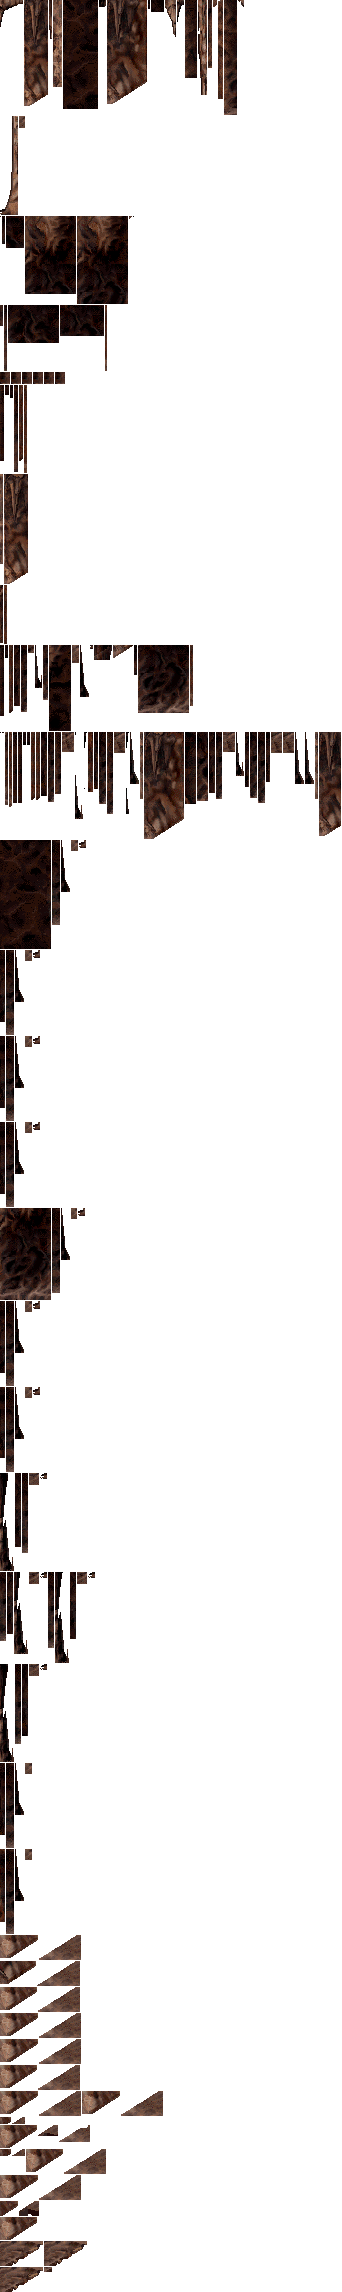
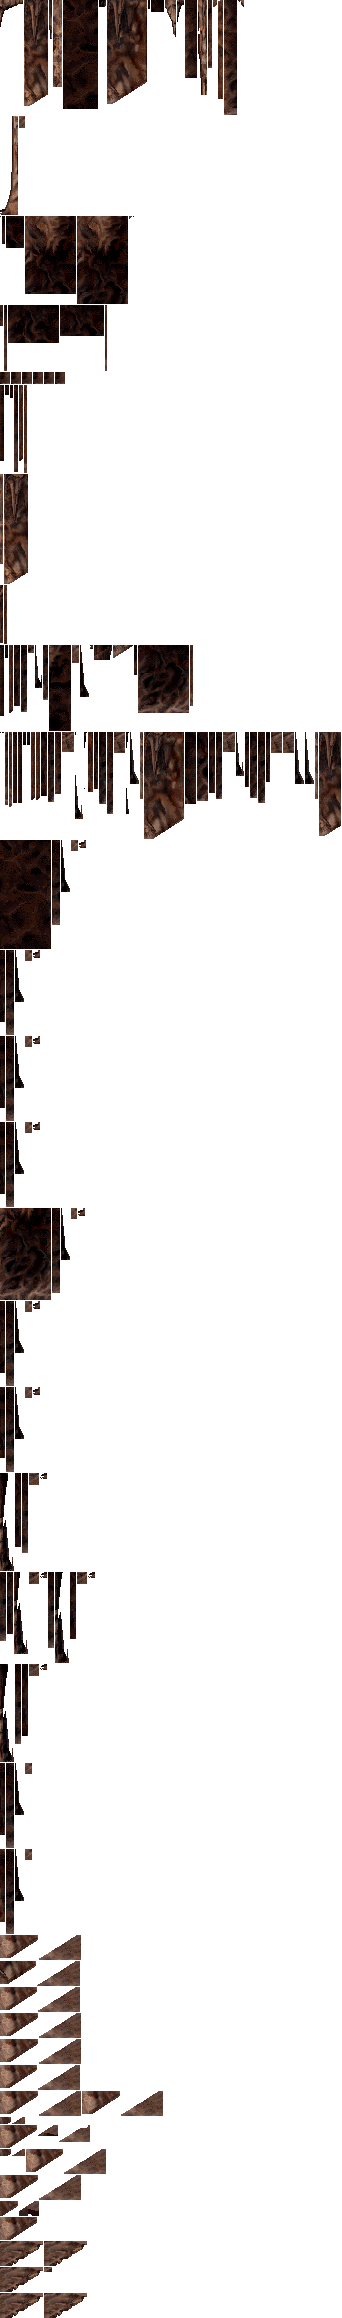
Blend approved right floor tips in level 3 room 3

Changed region(s): [[0.0, 0.062, 1.0, 1.0], [0.3216, 0.031, 0.3509, 0.062], [0.0585, 0.031, 0.0877, 0.062]]

diff --git a/tests/test_cavern_retouch.py b/tests/test_cavern_retouch.py
@@ -54,8 +54,8 @@ class BundledCavernRetouchTests(unittest.TestCase):
 
     def test_bundled_variants_have_valid_scope_and_crop_sizes(self):
         assets = retouch_assets()
-        self.assertEqual(len(assets), 85)
-        self.assertEqual({key[0] for key in assets}, {0, 1, 4, 6, 7, 10, 11, 12, 14, 15, 20, 23, 25, 27, 29, 31})
+        self.assertEqual(len(assets), 87)
+        self.assertEqual({key[0] for key in assets}, {0, 1, 2, 4, 6, 7, 10, 11, 12, 14, 15, 20, 23, 25, 27, 29, 31})
         for key, (record, image) in assets.items():
             with self.subTest(key=key):
                 x1, y1, x2, y2 = record['source_rect']
@@ -68,7 +68,7 @@ class BundledCavernRetouchTests(unittest.TestCase):
     def test_unaffected_rooms_do_not_even_load_retouch_assets(self):
         source = Image.new('RGBA', (5, 5), 'red')
         with patch('pop2.cavern_retouch.retouch_assets', side_effect=AssertionError('Unexpected load')):
-            for room in set(range(32)) - {0, 1, 4, 6, 7, 10, 11, 12, 14, 15, 20, 23, 25, 27, 29, 31}:
+            for room in set(range(32)) - {0, 1, 2, 4, 6, 7, 10, 11, 12, 14, 15, 20, 23, 25, 27, 29, 31}:
                 self.assertIs(retouched_sprite(room, [], source), source)
 
     def test_unmatched_sources_and_other_shape_libraries_are_untouched(self):
@@ -306,7 +306,7 @@ class CavernRetouchTests(PreviousArtworkMixin, unittest.TestCase):
         self.assertEqual(closed.crop((185, 135, 281, 220)).tobytes(), native.crop((185, 135, 281, 220)).tobytes())
 
     def test_unapproved_rooms_remain_pixel_identical(self):
-        for room in set(range(32)) - {0, 1, 4, 6, 7, 10, 11, 12, 14, 15, 20, 23, 25, 27, 29, 31}:
+        for room in set(range(32)) - {0, 1, 2, 4, 6, 7, 10, 11, 12, 14, 15, 20, 23, 25, 27, 29, 31}:
             with self.subTest(room=room):
                 native, edited = cavern_room(room), cavern_room(room, retouched=True)
                 self.assertEqual(native.background.tobytes(), edited.background.tobytes())
@@ -442,17 +442,17 @@ class CavernRetouchTests(PreviousArtworkMixin, unittest.TestCase):
         game = LevelRenderer(level, preload_room=False)
         reference = LevelRenderer(level, preload_room=False, retouch_caverns=False)
         for room in range(32):
-            expected = cavern_room(room, animated=True, retouched=room in (0, 1, 4, 6, 7, 10, 11, 12, 14, 15, 20, 23, 25, 27, 29, 31))
+            expected = cavern_room(room, animated=True, retouched=room in (0, 1, 2, 4, 6, 7, 10, 11, 12, 14, 15, 20, 23, 25, 27, 29, 31))
             self.assertEqual(game.room(room).flattened().tobytes(), expected.flattened().tobytes())
             self.assertEqual(reference.room(room).flattened().tobytes(), cavern_room(room, animated=True).flattened().tobytes())
 
     def test_retained_pixels_do_not_propagate_retouch_into_adjacent_rooms(self):
         level = LevelDefinition.read(load_resource_file('Prince.rsrc'), 3)
         terrain = LevelMap(level.data)
-        for source in (0, 1, 4, 6, 7, 10, 11, 12, 14, 15, 20, 23, 25, 27, 29, 31):
+        for source in (0, 1, 2, 4, 6, 7, 10, 11, 12, 14, 15, 20, 23, 25, 27, 29, 31):
             for direction in ('left', 'right', 'up', 'down'):
                 destination = terrain.neighbor(source, direction)
-                if destination is None or destination in (0, 1, 4, 6, 7, 10, 11, 12, 14, 15, 20, 23, 25, 27, 29, 31):
+                if destination is None or destination in (0, 1, 2, 4, 6, 7, 10, 11, 12, 14, 15, 20, 23, 25, 27, 29, 31):
                     continue
                 with self.subTest(source=source, destination=destination):
                     game = LevelRenderer(level, preload_room=False)

diff --git a/pop2/cavern_retouch.py b/pop2/cavern_retouch.py
@@ -86,7 +86,7 @@ def retouched_door_sprite(level, room, command, source):
 
 
 def retouched_sprite(room, command, source, *, level_number=3):
-    approved = (room in (0, 1, 4, 6, 7, 10, 11, 12, 14, 15, 20, 23, 25, 27, 29, 31) if level_number == 3
+    approved = (room in (0, 1, 2, 4, 6, 7, 10, 11, 12, 14, 15, 20, 23, 25, 27, 29, 31) if level_number == 3
                 else room in (4, 5, 11, 12, 13, 17, 21, 22, 25, 27) if level_number == 4
                 else level_number == 5 and room in (1, 5, 6, 8, 10, 12, 13, 14, 15, 16, 18, 21, 22, 24))
     if not approved or len(command) < 8 or command[7] != 4:

diff --git a/docs/CAVERN_ARTWORK.md b/docs/CAVERN_ARTWORK.md
@@ -350,3 +350,4 @@ artwork; no original golden or mask assertion is discarded.
 | Level | Room | Added visible pixels | Combined cached RGB SHA256 |
 | --- | --- | --- | --- |
[2 lines of base64/hex data omitted]
